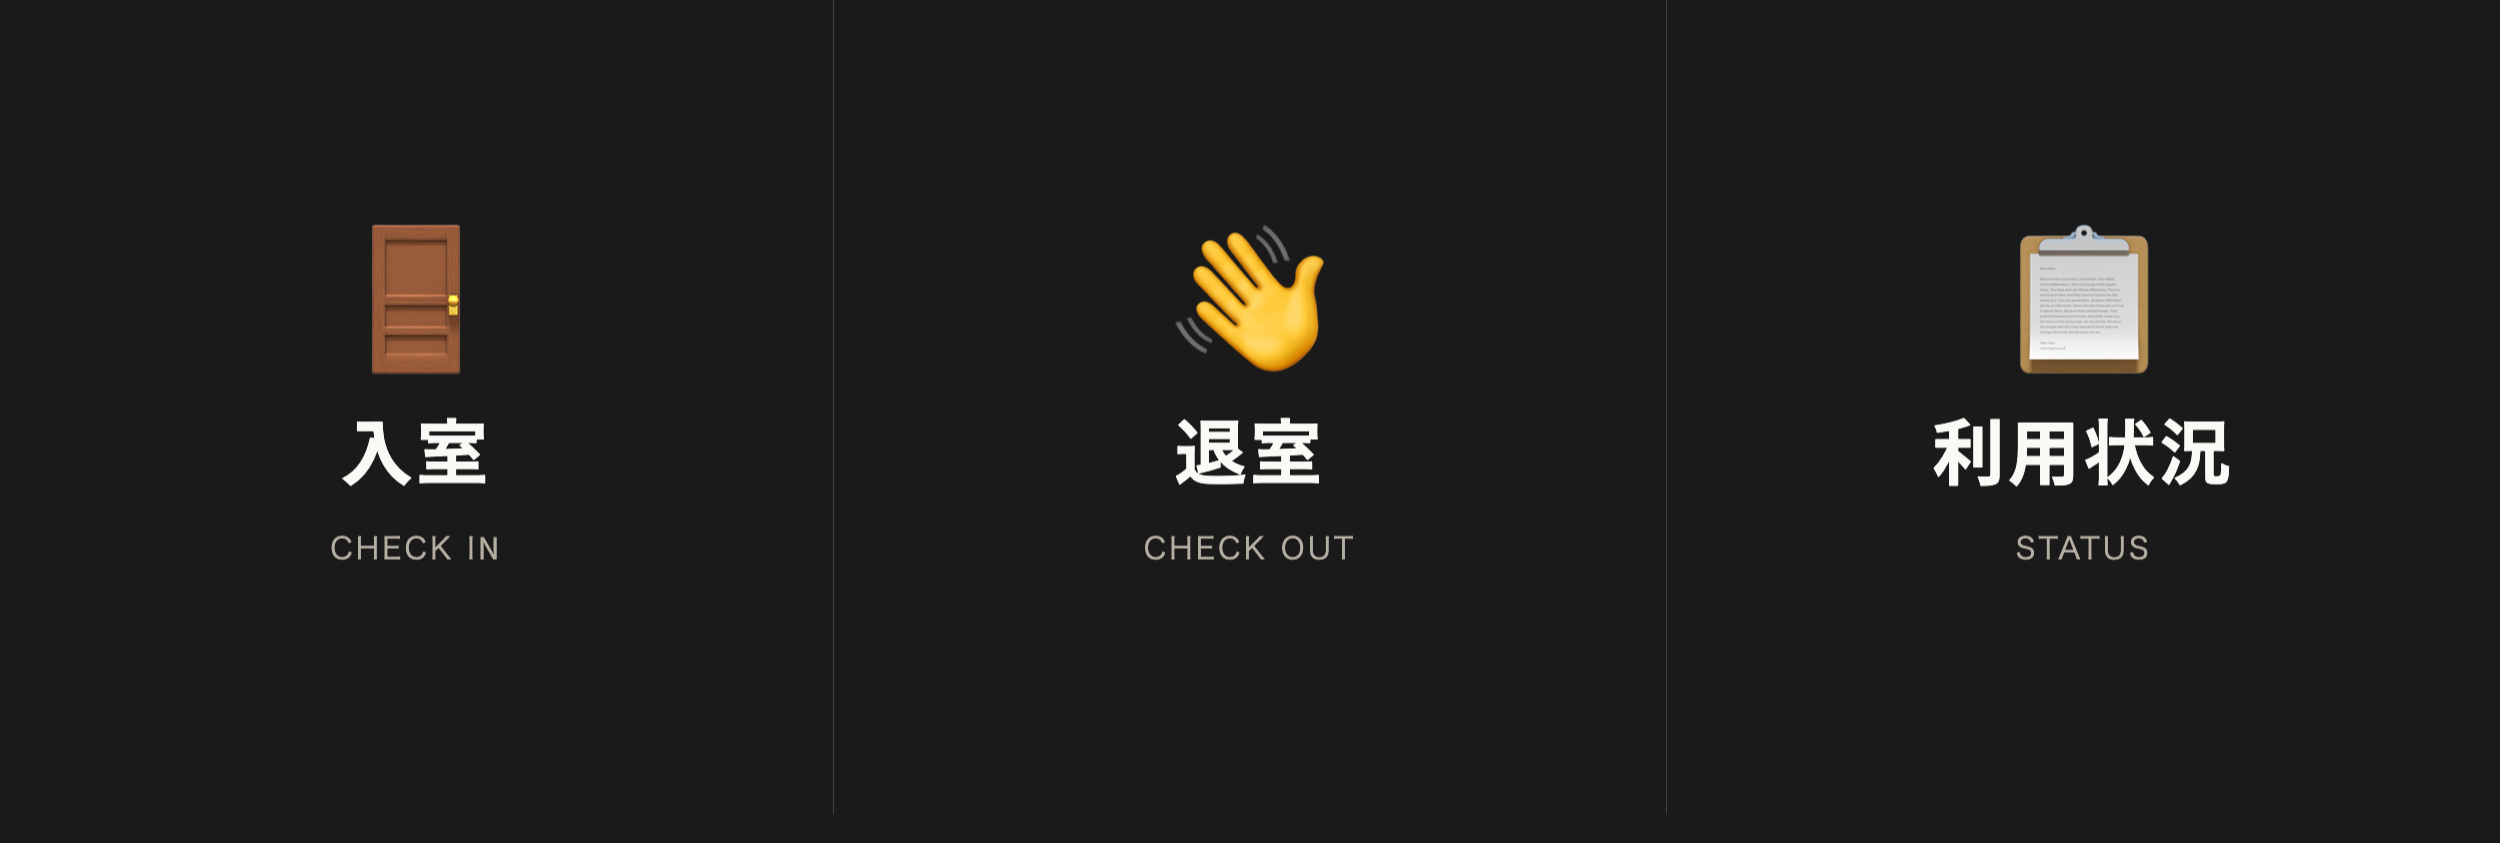
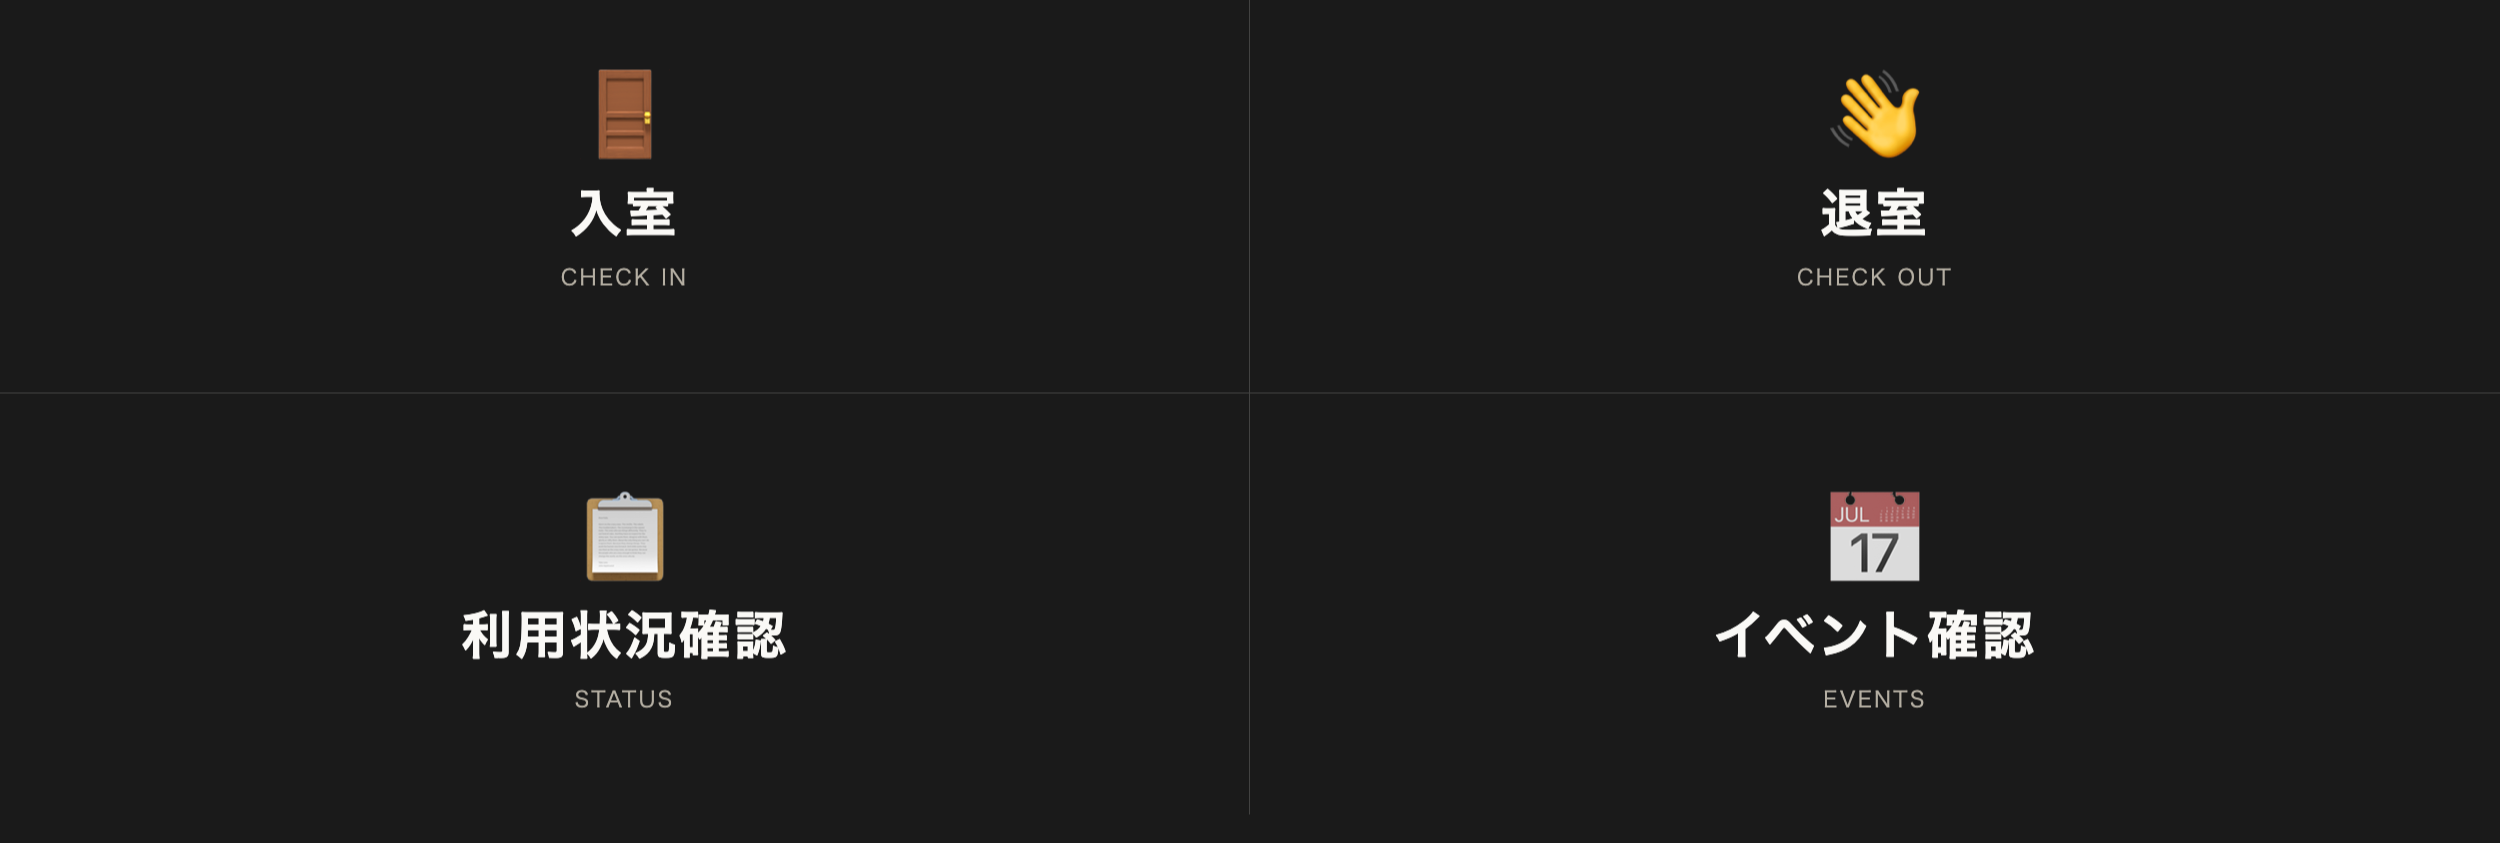
feat: リッチメニューにイベント確認ボタンを追加(4分割に変更)
入室/退室/利用状況確認に加え、既存のテキストコマンド「イベント」と同じ
出欠確認・アンケート一覧をリッチメニューからも呼べるようにした。
line_richmenu_setup.phpは再実行時に既存メニューを削除してから作り直す。

diff --git a/line_webhook.php b/line_webhook.php
@@ -46,105 +46,9 @@ foreach ($events as $event) {
     // 4. Logic: Check if user asks about events
     // Triggers: "イベント", "予定", "活動", "event"
     if (preg_match('/(イベント|予定|活動|event)/ui', $userMessage)) {
-        
         $pdo = getDB();
-        
-        // Identify the LINE user
         $line_user_id = $event['source']['userId'] ?? null;
-        $db_user_id = null;
-        $db_user_role = 'member';
-        if ($line_user_id) {
-            $user_stmt = $pdo->prepare("SELECT id, role FROM users WHERE line_user_id = ?");
-            $user_stmt->execute([$line_user_id]);
-            $db_user = $user_stmt->fetch(PDO::FETCH_ASSOC);
-            if ($db_user) {
-                $db_user_id = $db_user['id'];
-                $db_user_role = $db_user['role'] ?? 'member';
-            }
-        }
-        
-        // Fetch user's attendance responses
-        $user_attended = [];
-        if ($db_user_id) {
-            $att_stmt = $pdo->prepare("SELECT event_id, status FROM attendance WHERE user_id = ?");
-            $att_stmt->execute([$db_user_id]);
-            foreach ($att_stmt->fetchAll(PDO::FETCH_ASSOC) as $a) {
-                $user_attended[$a['event_id']] = $a['status'];
-            }
-        }
-        
-        // Fetch Upcoming Events (exclude archived, exclude surveys)
-        $stmt = $pdo->prepare("SELECT * FROM events WHERE event_date >= CURDATE() AND (is_archived = 0 OR is_archived IS NULL) AND (type = 'event' OR type IS NULL) ORDER BY event_date ASC LIMIT 10");
-        $stmt->execute();
-        $upcoming_events = $stmt->fetchAll(PDO::FETCH_ASSOC);
-        
-        // Fetch Surveys targeted to this user
-        $user_surveys = [];
-        if ($db_user_id) {
-            $survey_stmt = $pdo->prepare("SELECT * FROM events WHERE (is_archived = 0 OR is_archived IS NULL) AND type = 'survey' AND (close_at IS NULL OR close_at >= NOW()) ORDER BY event_date ASC");
-            $survey_stmt->execute();
-            $all_surveys = $survey_stmt->fetchAll(PDO::FETCH_ASSOC);
-            
-            foreach ($all_surveys as $sv) {
-                $target_users = json_decode($sv['target_users'] ?? '[]', true);
-                $is_target = empty($target_users) || in_array($db_user_id, $target_users);
-                
-                // Also check if user is admin, creator, or event_admin
-                if (!$is_target) {
-                    if ($db_user_role === 'admin' || $sv['created_by'] == $db_user_id) {
-                        $is_target = true;
-                    } else {
-                        try {
-                            $ea_stmt = $pdo->prepare("SELECT 1 FROM event_admins WHERE event_id = ? AND user_id = ?");
-                            $ea_stmt->execute([$sv['id'], $db_user_id]);
-                            if ($ea_stmt->fetch()) $is_target = true;
-                        } catch (Exception $e) {}
-                    }
-                }
-                
-                if ($is_target) {
-                    $user_surveys[] = $sv;
-                }
-            }
-        }
-
-        $replyText = "";
-
-        // Events section
-        if (empty($upcoming_events) && empty($user_surveys)) {
-            $replyText = "現在予定されているイベントやアンケートはありません。";
-        } else {
-            if (!empty($upcoming_events)) {
-                $replyText .= "📅 これからのイベント 📅\n\n";
-                foreach ($upcoming_events as $ev) {
-                    $date = date('m/d H:i', strtotime($ev['event_date']));
-                    $status = "";
-                    if ($db_user_id && isset($user_attended[$ev['id']])) {
-                        $s = $user_attended[$ev['id']];
-                        if ($s === 'join') $status = " ✅参加";
-                        elseif ($s === 'maybe') $status = " 🤔未定";
-                        elseif ($s === 'decline') $status = " ❌不参加";
-                    } else {
-                        $status = " ⬜未回答";
-                    }
-                    $replyText .= "🔹 {$date} ～{$status}\n   {$ev['title']}\n   👉 https://whabitathome.com/form_view.php?id={$ev['id']}\n\n";
-                }
-            }
-            
-            // Surveys section
-            if (!empty($user_surveys)) {
-                $replyText .= "📋 あなた宛のアンケート 📋\n\n";
-                foreach ($user_surveys as $sv) {
-                    $answered = isset($user_attended[$sv['id']]) ? " ✅回答済" : " ⬜未回答";
-                    $replyText .= "🔸 {$sv['title']}{$answered}\n   👉 https://whabitathome.com/form_view.php?id={$sv['id']}\n\n";
-                }
-            }
-            
-            $replyText .= "サイトで確認: https://whabitathome.com/dashboard.php";
-        }
-
-        // 5. Send Reply
-        replyToLine($replyToken, $replyText);
+        sendEventsAndSurveysReply($pdo, $replyToken, $line_user_id);
     }
   } catch (Exception $e) {
       // 1件のイベント処理が失敗しても他のイベントやHTTP 200応答を妨げない
@@ -152,14 +56,111 @@ foreach ($events as $event) {
   }
 }
 
-// 部室の入退室・利用状況確認（リッチメニューのpostbackイベント）
+// イベント/アンケート一覧を返信する（テキストコマンド「イベント」とリッチメニューの両方から呼ばれる）
+function sendEventsAndSurveysReply(PDO $pdo, $replyToken, $lineUserId) {
+    $db_user_id = null;
+    $db_user_role = 'member';
+    if ($lineUserId) {
+        $user_stmt = $pdo->prepare("SELECT id, role FROM users WHERE line_user_id = ?");
+        $user_stmt->execute([$lineUserId]);
+        $db_user = $user_stmt->fetch(PDO::FETCH_ASSOC);
+        if ($db_user) {
+            $db_user_id = $db_user['id'];
+            $db_user_role = $db_user['role'] ?? 'member';
+        }
+    }
+
+    // Fetch user's attendance responses
+    $user_attended = [];
+    if ($db_user_id) {
+        $att_stmt = $pdo->prepare("SELECT event_id, status FROM attendance WHERE user_id = ?");
+        $att_stmt->execute([$db_user_id]);
+        foreach ($att_stmt->fetchAll(PDO::FETCH_ASSOC) as $a) {
+            $user_attended[$a['event_id']] = $a['status'];
+        }
+    }
+
+    // Fetch Upcoming Events (exclude archived, exclude surveys)
+    $stmt = $pdo->prepare("SELECT * FROM events WHERE event_date >= CURDATE() AND (is_archived = 0 OR is_archived IS NULL) AND (type = 'event' OR type IS NULL) ORDER BY event_date ASC LIMIT 10");
+    $stmt->execute();
+    $upcoming_events = $stmt->fetchAll(PDO::FETCH_ASSOC);
+
+    // Fetch Surveys targeted to this user
+    $user_surveys = [];
+    if ($db_user_id) {
+        $survey_stmt = $pdo->prepare("SELECT * FROM events WHERE (is_archived = 0 OR is_archived IS NULL) AND type = 'survey' AND (close_at IS NULL OR close_at >= NOW()) ORDER BY event_date ASC");
+        $survey_stmt->execute();
+        $all_surveys = $survey_stmt->fetchAll(PDO::FETCH_ASSOC);
+
+        foreach ($all_surveys as $sv) {
+            $target_users = json_decode($sv['target_users'] ?? '[]', true);
+            $is_target = empty($target_users) || in_array($db_user_id, $target_users);
+
+            // Also check if user is admin, creator, or event_admin
+            if (!$is_target) {
+                if ($db_user_role === 'admin' || $sv['created_by'] == $db_user_id) {
+                    $is_target = true;
+                } else {
+                    try {
+                        $ea_stmt = $pdo->prepare("SELECT 1 FROM event_admins WHERE event_id = ? AND user_id = ?");
+                        $ea_stmt->execute([$sv['id'], $db_user_id]);
+                        if ($ea_stmt->fetch()) $is_target = true;
+                    } catch (Exception $e) {}
+                }
+            }
+
+            if ($is_target) {
+                $user_surveys[] = $sv;
+            }
+        }
+    }
+
+    $replyText = "";
+
+    // Events section
+    if (empty($upcoming_events) && empty($user_surveys)) {
+        $replyText = "現在予定されているイベントやアンケートはありません。";
+    } else {
+        if (!empty($upcoming_events)) {
+            $replyText .= "📅 これからのイベント 📅\n\n";
+            foreach ($upcoming_events as $ev) {
+                $date = date('m/d H:i', strtotime($ev['event_date']));
+                $status = "";
+                if ($db_user_id && isset($user_attended[$ev['id']])) {
+                    $s = $user_attended[$ev['id']];
+                    if ($s === 'join') $status = " ✅参加";
+                    elseif ($s === 'maybe') $status = " 🤔未定";
+                    elseif ($s === 'decline') $status = " ❌不参加";
+                } else {
+                    $status = " ⬜未回答";
+                }
+                $replyText .= "🔹 {$date} ～{$status}\n   {$ev['title']}\n   👉 https://whabitathome.com/form_view.php?id={$ev['id']}\n\n";
+            }
+        }
+
+        // Surveys section
+        if (!empty($user_surveys)) {
+            $replyText .= "📋 あなた宛のアンケート 📋\n\n";
+            foreach ($user_surveys as $sv) {
+                $answered = isset($user_attended[$sv['id']]) ? " ✅回答済" : " ⬜未回答";
+                $replyText .= "🔸 {$sv['title']}{$answered}\n   👉 https://whabitathome.com/form_view.php?id={$sv['id']}\n\n";
+            }
+        }
+
+        $replyText .= "サイトで確認: https://whabitathome.com/dashboard.php";
+    }
+
+    replyToLine($replyToken, $replyText);
+}
+
+// 部室の入退室・利用状況確認・イベント確認（リッチメニューのpostbackイベント）
 function handleRoomPostback($event) {
     $replyToken = $event['replyToken'] ?? null;
     if (!$replyToken) return;
 
     parse_str($event['postback']['data'] ?? '', $data);
     $action = $data['action'] ?? '';
-    if (!in_array($action, ['checkin', 'checkout', 'status'], true)) {
+    if (!in_array($action, ['checkin', 'checkout', 'status', 'event'], true)) {
         return;
     }
 
@@ -167,6 +168,13 @@ function handleRoomPostback($event) {
     if (!$lineUserId) return;
 
     $pdo = getDB();
+
+    // イベント確認は未登録者でも見られる（既存のテキストコマンド「イベント」と同じ挙動）
+    if ($action === 'event') {
+        sendEventsAndSurveysReply($pdo, $replyToken, $lineUserId);
+        return;
+    }
+
     ensureRoomTables($pdo);
 
     $stmt = $pdo->prepare("SELECT id, is_approved FROM users WHERE line_user_id = ?");

diff --git a/scripts/line_richmenu_setup.php b/scripts/line_richmenu_setup.php
@@ -1,15 +1,18 @@
 <?php
 /**
- * LINE公式アカウントのリッチメニュー作成スクリプト（CLI専用、一度きり実行）
+ * LINE公式アカウントのリッチメニュー作成スクリプト（CLI専用、実行のたびに作り直す）
  *
- * 「入室」「退室」「利用状況確認」の3ボタンをpostbackイベントとして送るリッチメニューを作成し、
- * 全員のデフォルトメニューとして設定する。line_webhook.phpのhandleRoomPostback()が
- * action=checkin / action=checkout / action=status を受け取る前提。
+ * 「入室」「退室」「利用状況確認」「イベント確認」の4ボタンをpostbackイベントとして送る
+ * リッチメニューを作成し、全員のデフォルトメニューとして設定する。
+ * line_webhook.phpのhandleRoomPostback()が
+ * action=checkin / action=checkout / action=status / action=event を受け取る前提。
+ * 実行時に既存の登録済みリッチメニューを全て削除してから作り直すため、
+ * 再実行してもLINE Developers側にゴミが残らない。
  *
  * 実行方法（本番サーバー上、SSHまたはXserverのコマンド実行環境で）:
  *   php scripts/line_richmenu_setup.php images/richmenu/room_richmenu.png
  *
- * 画像は2500x843px推奨（3等分でボタンを配置するため）。PNG/JPG対応。
+ * 画像は2500x843px推奨（2x2でボタンを配置するため）。PNG/JPG対応。
  * 既存の.env（LINE_BOT_ACCESS_TOKEN）をそのまま使うため.env変更は不要。
  */
 
@@ -58,21 +61,33 @@ $richMenuDef = [
     'chatBarText' => '部室メニュー',
     'areas' => [
         [
-            'bounds' => ['x' => 0, 'y' => 0, 'width' => 833, 'height' => 843],
+            'bounds' => ['x' => 0, 'y' => 0, 'width' => 1250, 'height' => 422],
             'action' => ['type' => 'postback', 'data' => 'action=checkin', 'displayText' => '入室'],
         ],
         [
-            'bounds' => ['x' => 833, 'y' => 0, 'width' => 834, 'height' => 843],
+            'bounds' => ['x' => 1250, 'y' => 0, 'width' => 1250, 'height' => 422],
             'action' => ['type' => 'postback', 'data' => 'action=checkout', 'displayText' => '退室'],
         ],
         [
-            'bounds' => ['x' => 1667, 'y' => 0, 'width' => 833, 'height' => 843],
+            'bounds' => ['x' => 0, 'y' => 422, 'width' => 1250, 'height' => 421],
             'action' => ['type' => 'postback', 'data' => 'action=status', 'displayText' => '利用状況確認'],
+        ],
+        [
+            'bounds' => ['x' => 1250, 'y' => 422, 'width' => 1250, 'height' => 421],
+            'action' => ['type' => 'postback', 'data' => 'action=event', 'displayText' => 'イベント確認'],
         ],
     ],
 ];
 
-echo "1/3 リッチメニューを作成中...\n";
+echo "1/4 既存のリッチメニューを整理中...\n";
+[$code, $body] = lineApiRequest('GET', 'https://api.line.me/v2/bot/richmenu/list');
+$existing = json_decode($body, true)['richmenus'] ?? [];
+foreach ($existing as $rm) {
+    lineApiRequest('DELETE', 'https://api.line.me/v2/bot/richmenu/' . $rm['richMenuId']);
+    echo "  削除: {$rm['richMenuId']} ({$rm['name']})\n";
+}
+
+echo "2/4 リッチメニューを作成中...\n";
 [$code, $body] = lineApiRequest('POST', 'https://api.line.me/v2/bot/richmenu', json_encode($richMenuDef));
 $result = json_decode($body, true);
 if ($code !== 200 || empty($result['richMenuId'])) {
@@ -82,7 +97,7 @@ if ($code !== 200 || empty($result['richMenuId'])) {
 $richMenuId = $result['richMenuId'];
 echo "  richMenuId = $richMenuId\n";
 
-echo "2/3 画像をアップロード中...\n";
+echo "3/4 画像をアップロード中...\n";
 $ext = strtolower(pathinfo($imagePath, PATHINFO_EXTENSION));
 $mime = ($ext === 'jpg' || $ext === 'jpeg') ? 'image/jpeg' : 'image/png';
 $imageData = file_get_contents($imagePath);
@@ -92,7 +107,7 @@ if ($code !== 200) {
     exit(1);
 }
 
-echo "3/3 全員のデフォルトリッチメニューとして設定中...\n";
+echo "4/4 全員のデフォルトリッチメニューとして設定中...\n";
 [$code, $body] = lineApiRequest('POST', "https://api.line.me/v2/bot/user/all/richmenu/$richMenuId");
 if ($code !== 200) {
     fwrite(STDERR, "デフォルト設定に失敗しました (HTTP $code): $body\n");